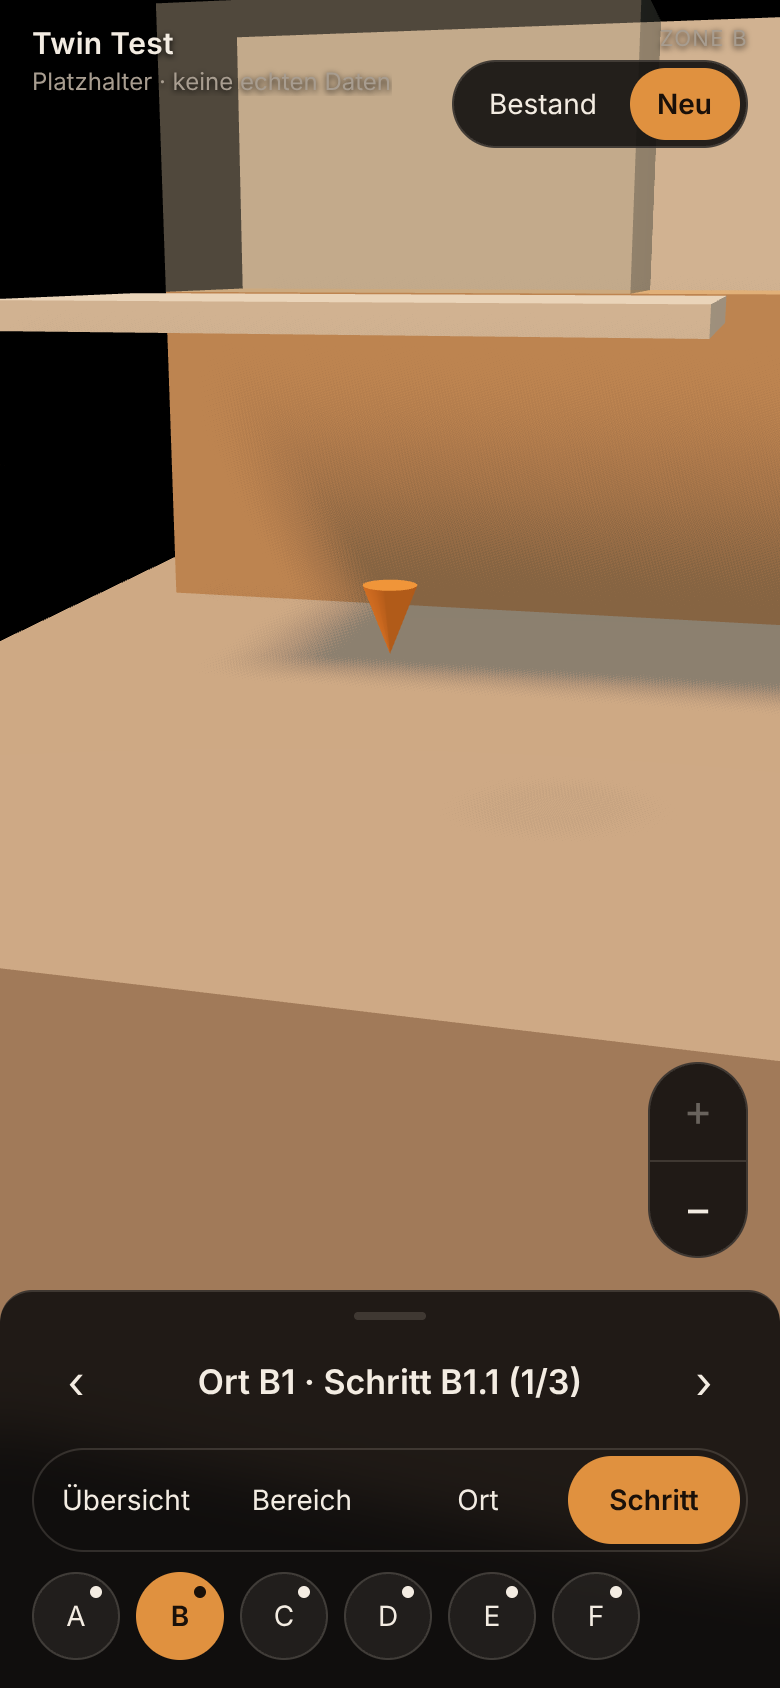
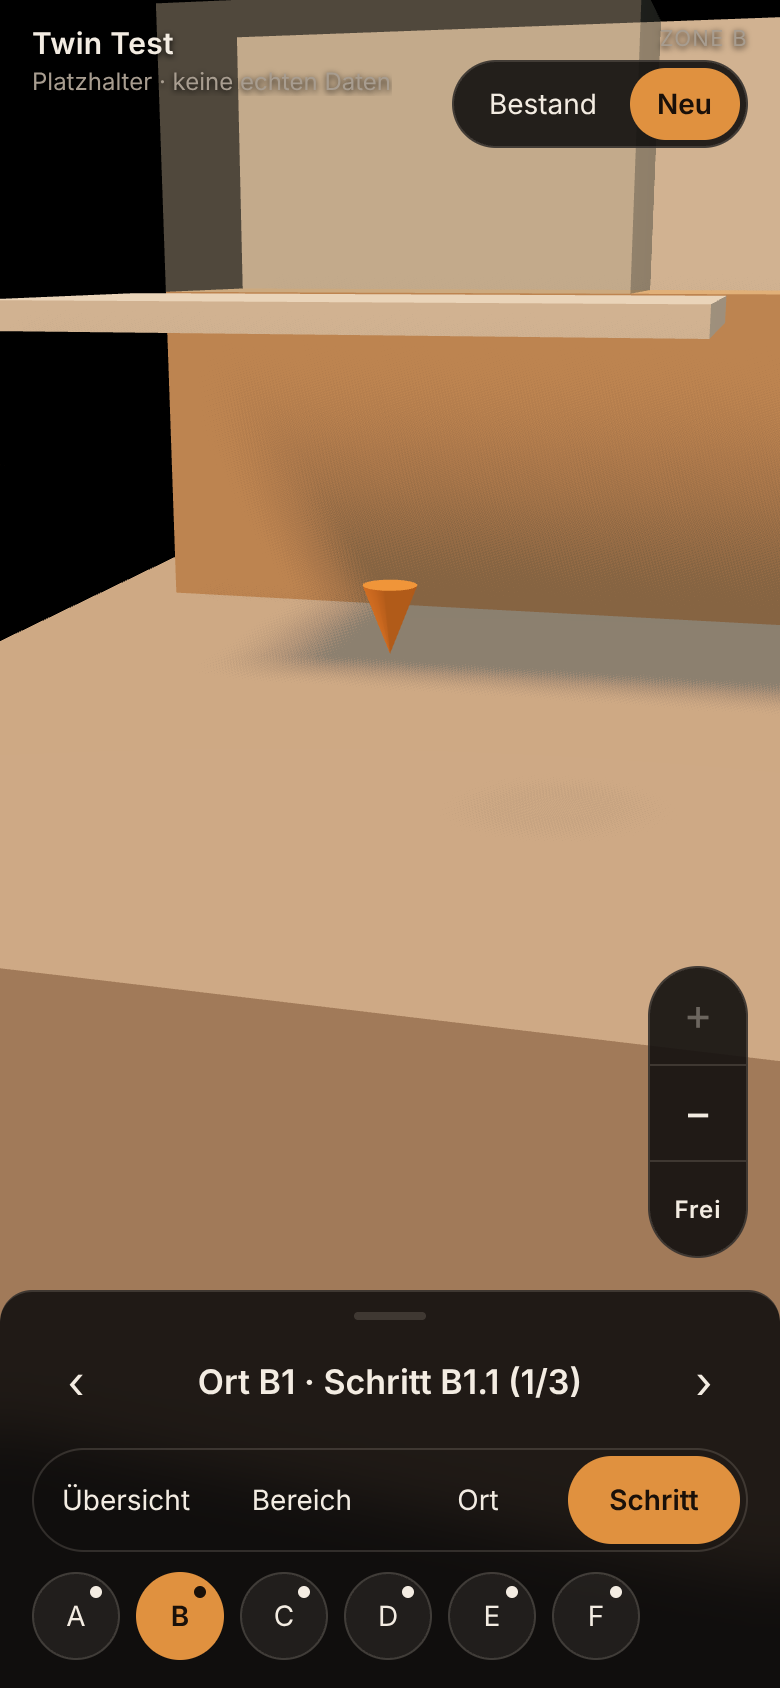
Freier Modus: Orbit per Knopf „Frei“ und Taste F, als Arbeitsmodus
OrbitControls übernehmen beim Einschalten die aktuelle Kamera (drehen,
schwenken, zoomen mit Maus und Touch, nicht unter den Boden); die
geführten Gesten und Tasten pausieren. Ausschalten fährt sanft zur
zuletzt gewählten geführten Ansicht zurück, ein geführter Sprung beendet
den freien Modus. Hinweiszeile wechselt mit. Geführter Modus bleibt
Standard. Platzhalter-Screenshots neu (Knopf in der Zoom-Leiste).

Claude-Session: https://claude.ai/code/session_01JUrGruTpgBUqnfuUWhoZ6h

Changed region(s): [[0.8308, 0.5545, 0.9846, 0.6469], [0.8615, 0.7085, 0.9231, 0.7393]]

diff --git a/src/view/viewer.ts b/src/view/viewer.ts
@@ -21,6 +21,7 @@ import {
   WebGLRenderer,
   type Object3D,
 } from 'three';
+import { OrbitControls } from 'three/examples/jsm/controls/OrbitControls.js';
 import { GLTFLoader } from 'three/examples/jsm/loaders/GLTFLoader.js';
 import { MeshoptDecoder } from 'three/examples/jsm/libs/meshopt_decoder.module.js';
 import type { Twin, VariantKey } from '../model/types';
@@ -65,6 +66,8 @@ export class Viewer {
   onFrame: ((now: number, moving: boolean) => void) | null = null;
   /** Für Dauermessungen: rendert jedes Bild, auch ohne Bewegung. */
   continuous = false;
+  /** Freier Modus (Arbeitsmodus): Orbit statt geführter Fahrt. */
+  private orbit: OrbitControls | null = null;
   /** Erfüllt, sobald das Gelände in der Szene ist (sofort, wenn das Paket keines hat). */
   readonly terrainReady: Promise<void>;
 
@@ -189,6 +192,70 @@ export class Viewer {
     this.camera.aspect = w / h;
     this.camera.setViewOffset(w, h, -this.insets.left / 2, this.insets.bottom / 2, w, h);
     this.requestFrame();
+  }
+
+  get free() {
+    return this.orbit !== null;
+  }
+
+  /**
+   * Freien Modus ein- oder ausschalten. Ein: Orbit übernimmt die aktuelle Kamera (Drehen, Schwenken,
+   * Zoomen mit Maus und Touch), die geführten Gesten pausieren. Aus: Kamera fährt zur zuletzt gewählten
+   * geführten Ansicht zurück.
+   */
+  setFree(on: boolean) {
+    if (on === this.free) return;
+    if (on) {
+      if (this.tween) {
+        this.state = this.tween.to;
+        this.tween = null;
+        this.busy(-1);
+      }
+      this.applyCamera();
+      const c = new OrbitControls(this.camera, this.canvas);
+      c.target.set(...this.state.target);
+      c.enableDamping = !this.reducedMotion;
+      c.dampingFactor = 0.1;
+      c.screenSpacePanning = false;
+      c.maxPolarAngle = Math.PI / 2 - 0.02; // nicht unter den Boden
+      c.minDistance = 2;
+      c.maxDistance = Math.max(50, this.state.frame * 6);
+      c.addEventListener('change', () => this.requestFrame());
+      c.update();
+      this.orbit = c;
+    } else {
+      this.orbit!.dispose();
+      this.orbit = null;
+      // Rückweg: vom freien Standpunkt sanft zurück in die geführte Ansicht
+      const from = this.stateFromCamera();
+      const to = this.state;
+      this.state = from;
+      const duration = this.reducedMotion ? 0 : 900;
+      if (!this.tween) this.busy(+1);
+      this.tween = { from, to, start: performance.now(), duration };
+    }
+    this.requestFrame();
+  }
+
+  /** Kamerastand als CamState (für den Rückweg aus dem freien Modus). */
+  private stateFromCamera(): CamState {
+    const t = this.orbit?.target ?? new Vector3(...this.state.target);
+    const p = this.camera.position;
+    const dx = p.x - t.x, dy = p.y - t.y, dz = p.z - t.z;
+    const d = Math.hypot(dx, dy, dz) || 1;
+    const h = this.canvas.clientHeight || 1;
+    const freeH = Math.max(1, h - this.insets.bottom);
+    const freeW = Math.max(1, (this.canvas.clientWidth || 1) - this.insets.left);
+    // frame so, dass applyCamera() denselben Abstand ergibt
+    const visible = 2 * d * Math.tan((this.camera.fov * Math.PI) / 360);
+    const frame = ((visible * Math.min(1, freeW / freeH)) * freeH) / h;
+    return {
+      target: [t.x, t.y, t.z],
+      fov: this.camera.fov,
+      azimuth: (Math.atan2(dx, dz) * 180) / Math.PI,
+      elevation: (Math.asin(Math.min(1, Math.max(-1, dy / d))) * 180) / Math.PI,
+      frame,
+    };
   }
 
   /** Fährt die Kamera zur Auswahl; ohne Animation bei reduzierter Bewegung. */
@@ -366,7 +433,12 @@ export class Viewer {
       else again = true;
     }
 
-    this.applyCamera();
+    if (this.orbit) {
+      // Im freien Modus steuert Orbit die Kamera; Dämpfung braucht weitere Bilder.
+      if (this.orbit.update()) again = true;
+    } else {
+      this.applyCamera();
+    }
     this.renderer.render(this.scene, this.camera);
     this.onFrame?.(now, again);
     if (again || this.continuous) this.requestFrame();

diff --git a/src/main.ts b/src/main.ts
@@ -119,7 +119,22 @@ function start(twin: Twin) {
     $('live').textContent = text;
   }
 
+  // Freier Modus (Arbeitsmodus): Orbit statt geführter Fahrt; geführte Gesten pausieren.
+  const HINT = $('hint').textContent ?? '';
+  const freeBtn = $<HTMLButtonElement>('free');
+  function setFree(on: boolean) {
+    viewer.setFree(on);
+    freeBtn.setAttribute('aria-pressed', String(on));
+    document.body.dataset.free = String(on);
+    $('hint').textContent = on
+      ? 'Frei: Ziehen dreht, rechte Taste/zwei Finger schwenken, Rad/zwei Finger zoomen · F zurück'
+      : HINT;
+    announce(on ? 'Freie Bewegung an' : 'Freie Bewegung aus, zurück zur geführten Ansicht');
+  }
+  freeBtn.addEventListener('click', () => setFree(!viewer.free));
+
   function go(next: Selection) {
+    if (viewer.free) setFree(false); // ein geführter Sprung beendet den freien Modus
     const stageChanged = next.stage !== sel.stage;
     sel = next;
     viewer.select(sel);
@@ -152,7 +167,10 @@ function start(twin: Twin) {
     if (e.altKey || e.ctrlKey || e.metaKey) return;
     const k = e.key;
     let handled = true;
-    if (k === 'ArrowUp' || k === '+' || k === '=') go(zoom(twin, sel, 1));
+    if (k === 'f' || k === 'F') setFree(!viewer.free);
+    else if (viewer.free && k !== 'Escape') handled = false; // im freien Modus gehören die Tasten dem Orbit
+    else if (viewer.free && k === 'Escape') setFree(false);
+    else if (k === 'ArrowUp' || k === '+' || k === '=') go(zoom(twin, sel, 1));
     else if (k === 'ArrowDown' || k === '-' || k === 'Escape') go(zoom(twin, sel, -1));
     else if (k === 'ArrowLeft') go(cycle(twin, sel, -1));
     else if (k === 'ArrowRight') go(cycle(twin, sel, 1));
@@ -169,6 +187,7 @@ function start(twin: Twin) {
   canvas.addEventListener(
     'wheel',
     (e) => {
+      if (viewer.free) return; // Orbit zoomt selbst
       e.preventDefault();
       const now = performance.now();
       if (now < wheelLock) return;
@@ -191,6 +210,7 @@ function start(twin: Twin) {
     return Math.hypot(a.x - b.x, a.y - b.y);
   };
   canvas.addEventListener('pointerdown', (e) => {
+    if (viewer.free) return; // Orbit nimmt die Zeiger
     canvas.setPointerCapture(e.pointerId);
     pointers.set(e.pointerId, { x: e.clientX, y: e.clientY, x0: e.clientX, y0: e.clientY });
     if (pointers.size === 1) gestureDone = false;
@@ -210,6 +230,7 @@ function start(twin: Twin) {
     }
   });
   const up = (e: PointerEvent) => {
+    if (viewer.free) return;
     const p = pointers.get(e.pointerId);
     pointers.delete(e.pointerId);
     if (!p || gestureDone || pointers.size > 0 || e.type === 'pointercancel') return;

diff --git a/index.html b/index.html
@@ -28,6 +28,7 @@
     <div class="zoom" id="zoom" role="group" aria-label="Zoom" hidden>
       <button type="button" id="zoom-in" aria-label="Hineinzoomen">+</button>
       <button type="button" id="zoom-out" aria-label="Herauszoomen">−</button>
+      <button type="button" id="free" class="free" aria-pressed="false" aria-label="Freie Bewegung" title="Frei drehen, schwenken, zoomen (F)">Frei</button>
     </div>
 
     <section class="sheet" id="panel" aria-label="Steuerung" hidden>
@@ -46,7 +47,7 @@
 
       <div class="zones" id="zones" role="group" aria-label="Bereich wählen"></div>
 
-      <p class="hint">Pfeile, + / −, B / N · Wischen, Zwei-Finger-Zoom</p>
+      <p class="hint" id="hint">Pfeile, + / −, B / N · Wischen, Zwei-Finger-Zoom</p>
     </section>
 
     <div class="notice" id="notice" role="status">Lade Twin …</div>

diff --git a/src/style.css b/src/style.css
@@ -170,6 +170,20 @@ button:disabled {
 .zoom button + button {
   border-top: 1px solid var(--line);
 }
+.zoom .free {
+  font-size: 12px;
+  font-weight: 600;
+  letter-spacing: 0.04em;
+}
+.zoom .free[aria-pressed='true'] {
+  background: var(--accent);
+  color: var(--accent-ink);
+}
+/* Im freien Modus: Hinweis, dass die geführten Knöpfe ruhen */
+body[data-free='true'] .stages,
+body[data-free='true'] .where-row button {
+  opacity: 0.45;
+}
 
 /* Blatt unten: Ort, Ansicht, Bereiche */
 .sheet {
